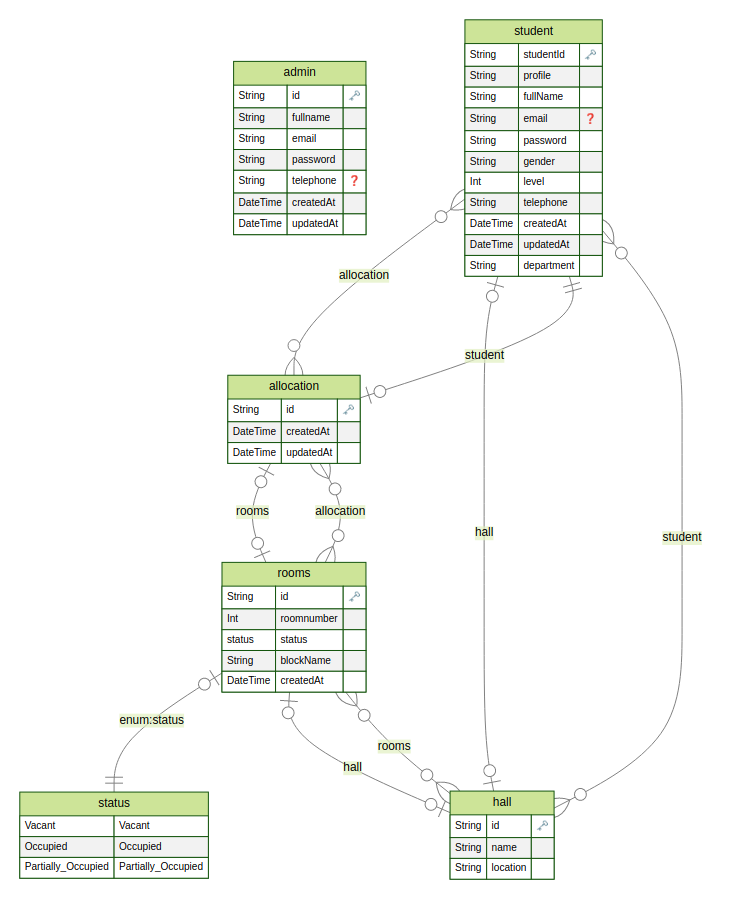
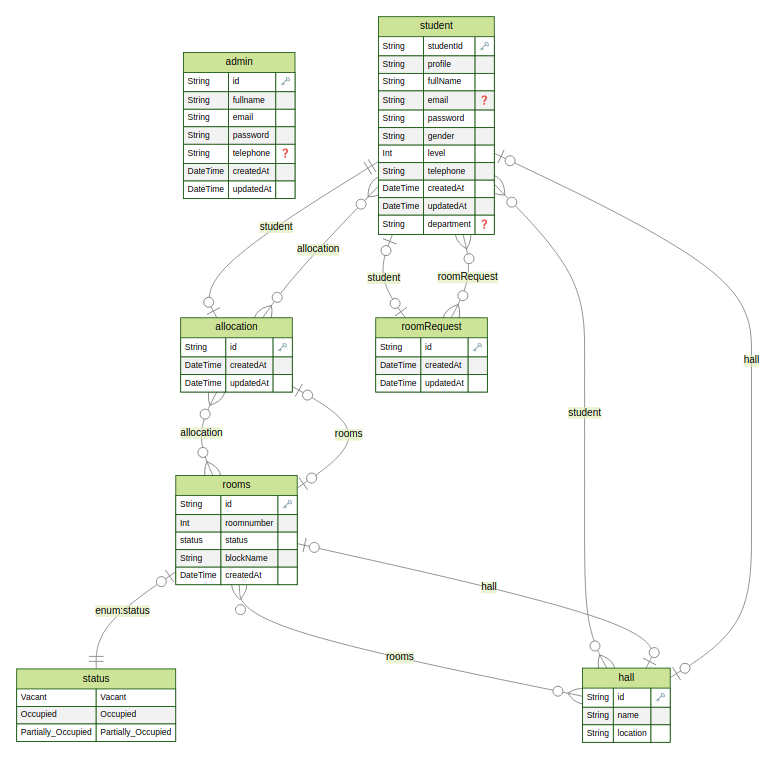
worked on the room request

diff --git a/src/controllers/roomRequest.js b/src/controllers/roomRequest.js
@@ -1,0 +1,14 @@
+const logger = require("../utils/loggerUtil");
+const prisma = require("../utils/prismaUtil");
+
+
+
+
+exports.requestRoom = async(req,res,next) =>{
+try {
+    const roomRequest = await prisma.re
+} catch (error) {
+    
+}
+}
+
